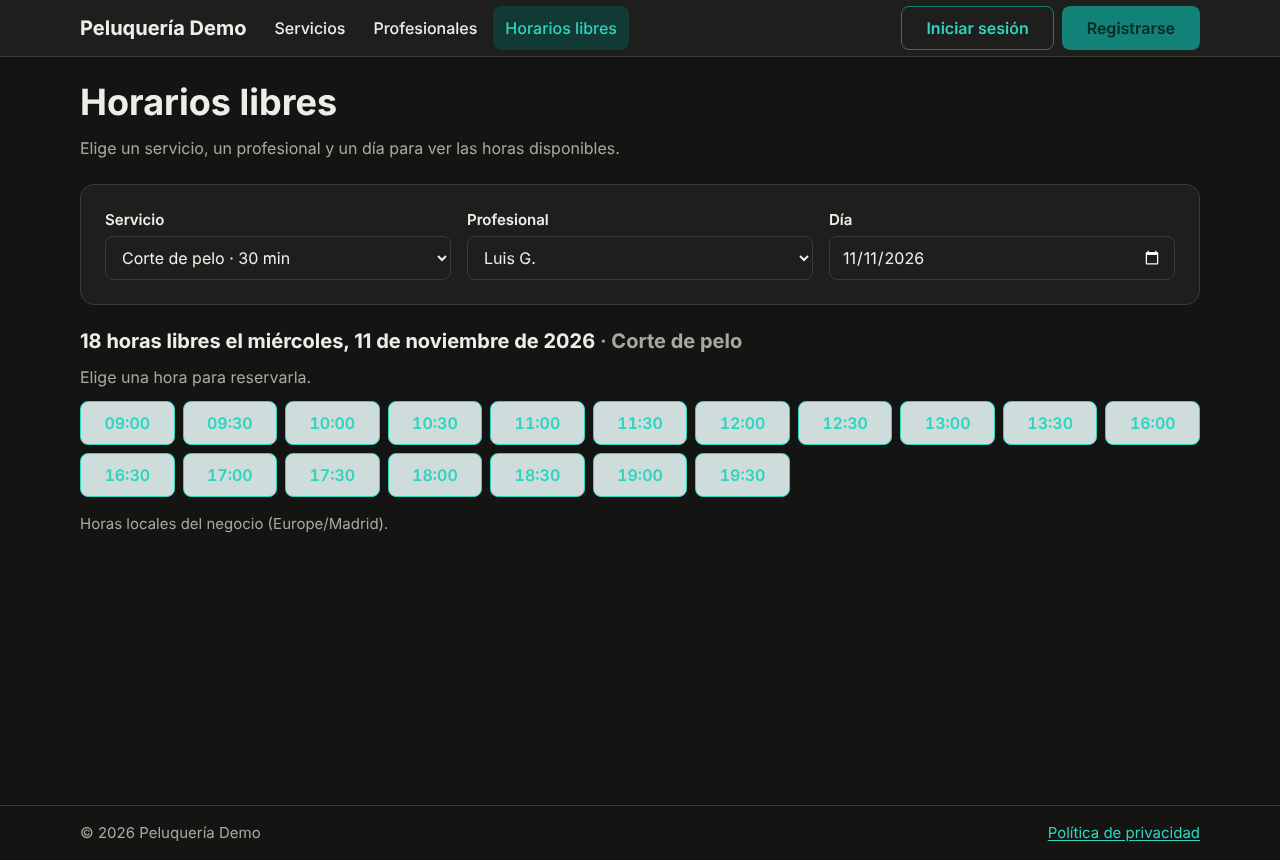
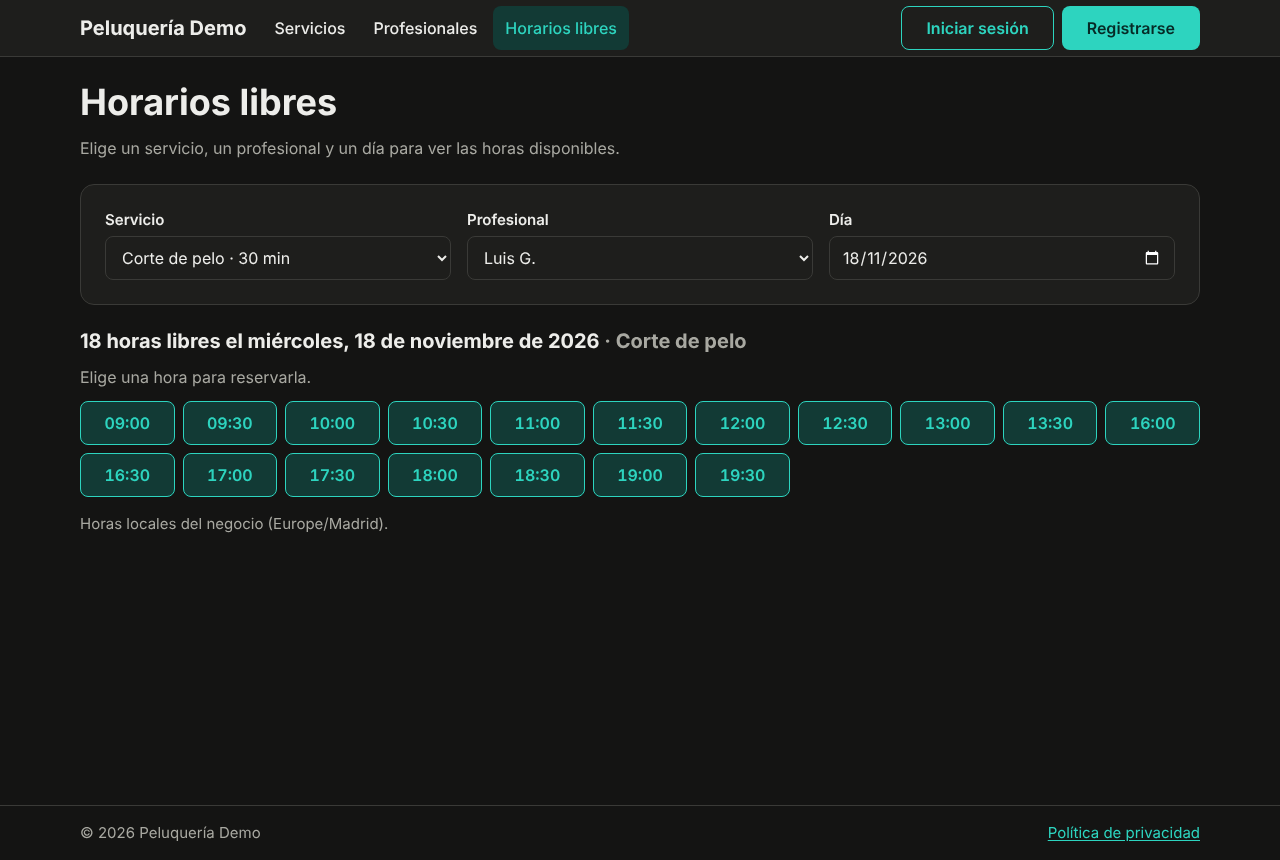
fix: capturas sin transiciones a medias en modo oscuro (D-8)
La captura en oscuro se sacaba mientras las horas libres cambiaban de color
(transition de 0.15 s tras emulateMedia), con fondo casi claro. La web estaba
bien. Capturas regeneradas y ficha D-8 en el registro de defectos.

Claude-Session: https://claude.ai/code/session_0172dfumaVdrBW5Xss4VosiE

diff --git a/e2e/capturas/capturas.spec.ts b/e2e/capturas/capturas.spec.ts
@@ -30,7 +30,9 @@ function proximoMiercoles(): string {
 async function capturar(page: Page, nombre: string) {
   // Que no salga nada a medio cargar.
   await expect(page.getByText('Cargando…')).toHaveCount(0)
-  await page.screenshot({ path: `${CARPETA}${nombre}.png` })
+  // `animations: 'disabled'` termina las transiciones: al pasar a oscuro, las
+  // horas salían a medio cambiar de color (fondo claro sobre página oscura).
+  await page.screenshot({ path: `${CARPETA}${nombre}.png`, animations: 'disabled' })
 }
 
 /** Horas libres de Luis para un corte de pelo, eligiendo como lo haría el usuario. */

diff --git a/docs/pruebas/registro-de-defectos.md b/docs/pruebas/registro-de-defectos.md
@@ -212,3 +212,29 @@ versión y no tiene ficha aquí.
   solo se reserva para clientes con cuenta" (fallaba antes del arreglo).
 - **Lo aprendido:** una regla del negocio que limita lo que se puede hacer
   tiene que estar escrita en la pantalla donde se nota el límite.
+
+### D-8
+
+**La captura en modo oscuro sacaba las horas libres con fondo claro**
+
+- **Dónde salió:** jose, al revisar las capturas del 6c (PR #25), el
+  13/11/2026: en `horarios-oscuro.png` las horas se veían con fondo claro y
+  texto verde azulado sobre la página oscura, y costaba leerlas.
+- **Qué se vio:** el fondo de las horas era (206, 221, 219), casi el del modo
+  claro (#e6f2f0), cuando en oscuro debe ser #123a35.
+- **Causa:** no era un fallo de la web, sino del script de capturas. Primero
+  saca la captura en claro y luego cambia a oscuro con `emulateMedia` sin
+  recargar. Las horas son enlaces con `transition: background-color 0.15s`, así
+  que la captura se hacía a mitad del cambio de color. Quien abre la web en
+  modo oscuro la ve bien desde el principio: sus horas tienen fondo
+  #123a35 y texto #2dd4bf (contraste 6,7:1), y axe ya lo comprobaba en
+  `accesibilidad.spec.ts`.
+- **Solución:** `capturar` usa `page.screenshot({ animations: 'disabled' })`,
+  que termina las transiciones antes de sacar la imagen. Capturas
+  regeneradas.
+- **PR:** #25.
+- **Prueba que lo vigila:** la propia captura `horarios-oscuro.png`; el
+  color de la web en oscuro lo vigila `accesibilidad.spec.ts`.
+- **Lo aprendido:** una captura sacada justo después de cambiar algo en la
+  página puede pillar una animación a medias; las capturas se hacen siempre
+  con las animaciones desactivadas.
